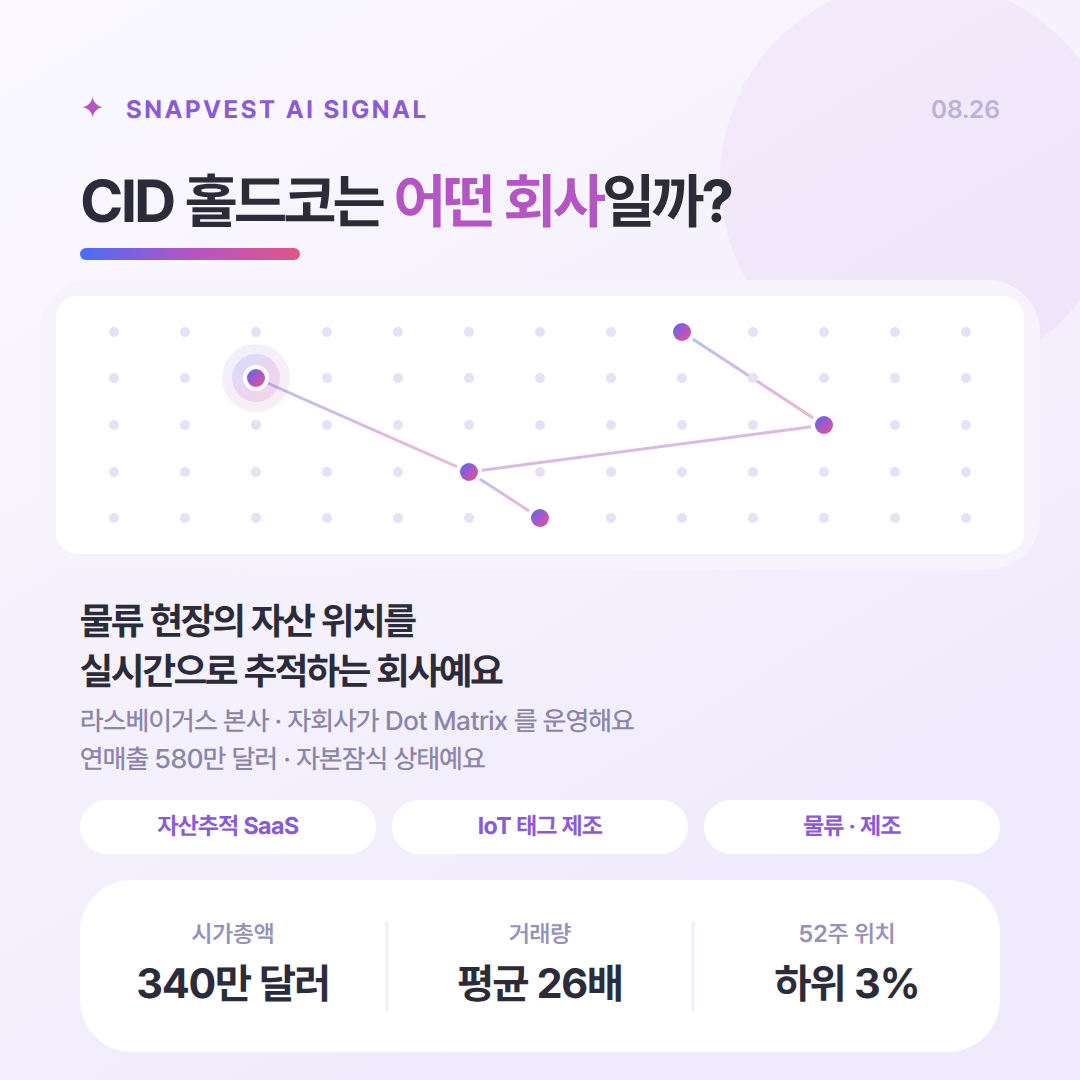
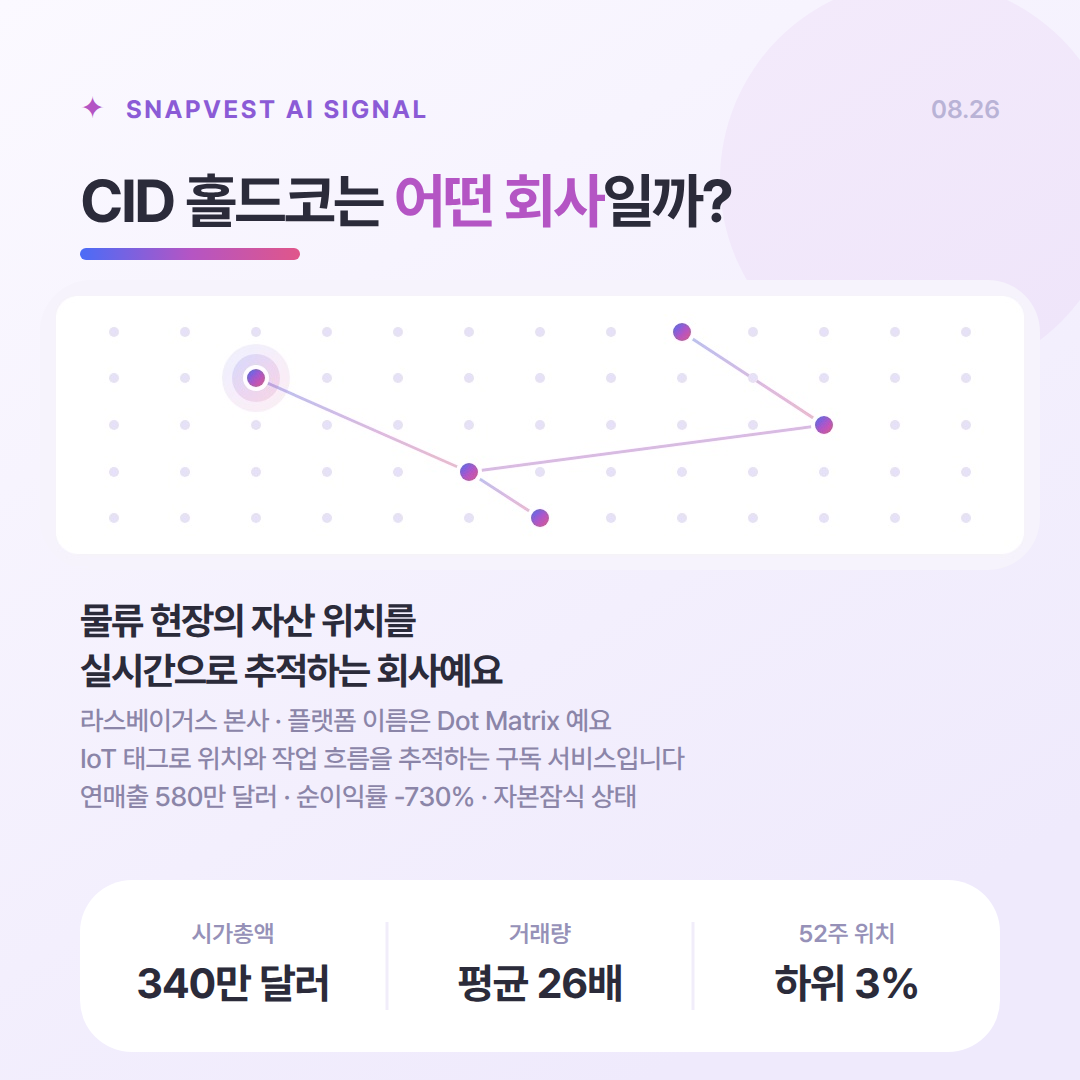
DAIC: 2번 카드 설명 보강 · 3번 카드 말투 정리
- card2() 의 보조 줄을 최대 3줄까지 받도록 고쳤다 (desc_sub~desc_sub3).
  줄이 없으면 그만큼 빠지므로 지난 회차 config 는 그대로 렌더된다
- 이번 회차는 사업 부문 칩을 빼고 보조 3줄로 채웠다.
  플랫폼 이름 / 서비스 방식 / 재무 상태 순
- 3번 카드 문구를 서술체로 교체.
  '물량이 얇아서 튄 겁니다' -> '수급만으로 나온 반등입니다'
  본문도 '조정', '반등이 시작됐습니다', '변동이 없습니다' 로 정리했다

Changed region(s): [[0.0611, 0.6417, 0.6111, 0.7944], [0.7333, 0.7333, 0.825, 0.7944]]

diff --git a/cardnews/generate.py b/cardnews/generate.py
@@ -130,11 +130,13 @@ def card1(c, align="end"):
 
 # ── 2. 기업 설명 ───────────────────────────────────
 def card2(c):
-    """사진 · 설명 2줄 · 보조 2줄 · 사업 부문 칩 3개 · 하단 지표 3열
-    desc_sub2 와 segments 는 없으면 그 줄이 통째로 빠진다."""
-    sub2 = c.get("desc_sub2")
-    sub2_svg = (f'  <text x="80" y="768" font-size="27" font-weight="500" '
-                f'letter-spacing="-0.5" fill="{SUB}">{esc(sub2)}</text>\n') if sub2 else ""
+    """사진 · 설명 2줄 · 보조 최대 3줄 · 사업 부문 칩 3개 · 하단 지표 3열
+    desc_sub2 · desc_sub3 · segments 는 없으면 그 줄이 통째로 빠진다."""
+    subs = [s for s in (c.get("desc_sub"), c.get("desc_sub2"), c.get("desc_sub3")) if s]
+    sub_svg = "".join(
+        f'  <text x="80" y="{730 + i * 38}" font-size="27" font-weight="500" '
+        f'letter-spacing="-0.5" fill="{SUB}">{esc(s)}</text>\n'
+        for i, s in enumerate(subs[:3]))
 
     segs, seg_svg = c.get("segments") or [], ""
     for i, s in enumerate(segs[:3]):
@@ -152,8 +154,7 @@ def card2(c):
 
   <text x="80" y="634" font-size="38" font-weight="700" letter-spacing="-1.5" fill="{INK}">{esc(c["desc_lead1"])}</text>
   <text x="80" y="684" font-size="38" font-weight="700" letter-spacing="-1.5" fill="{INK}">{esc(c["desc_lead2"])}</text>
-  <text x="80" y="730" font-size="27" font-weight="500" letter-spacing="-0.5" fill="{SUB}">{esc(c["desc_sub"])}</text>
-{sub2_svg}{seg_svg}
+{sub_svg}{seg_svg}
   <rect x="80" y="880" width="920" height="172" rx="52" fill="#FFFFFF"/>
   <text x="233" y="942" text-anchor="middle" font-size="24" font-weight="600" fill="{FAINT}">시가총액</text>
   <text x="233" y="998" text-anchor="middle" font-size="42" font-weight="700" letter-spacing="-1" fill="{INK}">{esc(c["market_cap"])}</text>

diff --git a/cardnews/README.md b/cardnews/README.md
@@ -88,7 +88,7 @@ python3 generate.py config.json out
 | `photo_company` | 이미지 경로 (**1000×290**). 비워두면 점선 플레이스홀더 |
 | `desc_lead1~2` | 굵은 설명 2줄 |
 | `desc_sub` | 흐린 보조 1줄 |
-| `desc_sub2` | 보조 2번째 줄. **없으면 그 줄이 통째로 빠진다** |
+| `desc_sub2` / `desc_sub3` | 보조 2·3번째 줄. **없으면 그 줄이 통째로 빠진다** |
 | `segments` | 사업 부문 칩 3개. **없으면 칩 줄이 통째로 빠진다** |
 | `market_cap` / `volume` / `week52` | 하단 3열 지표 |
 
